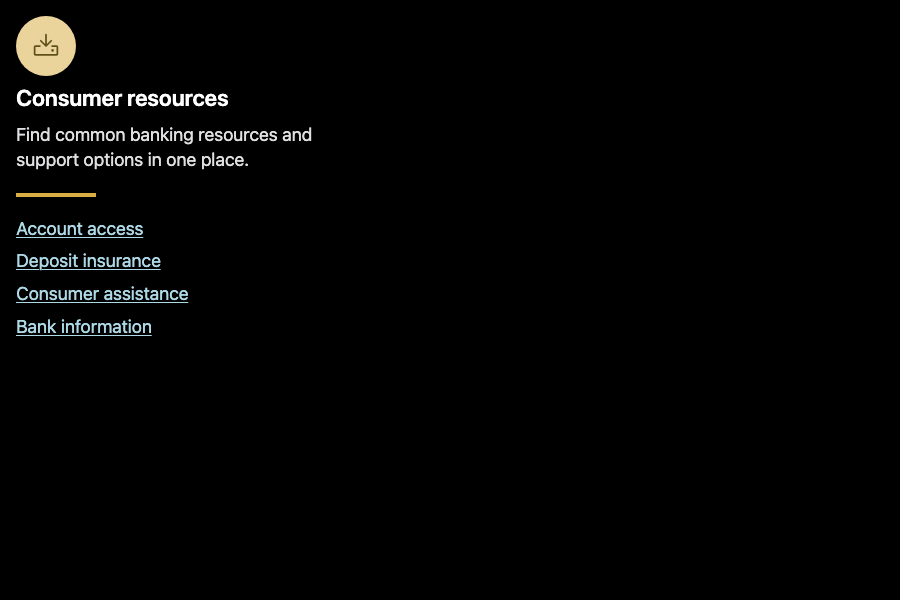
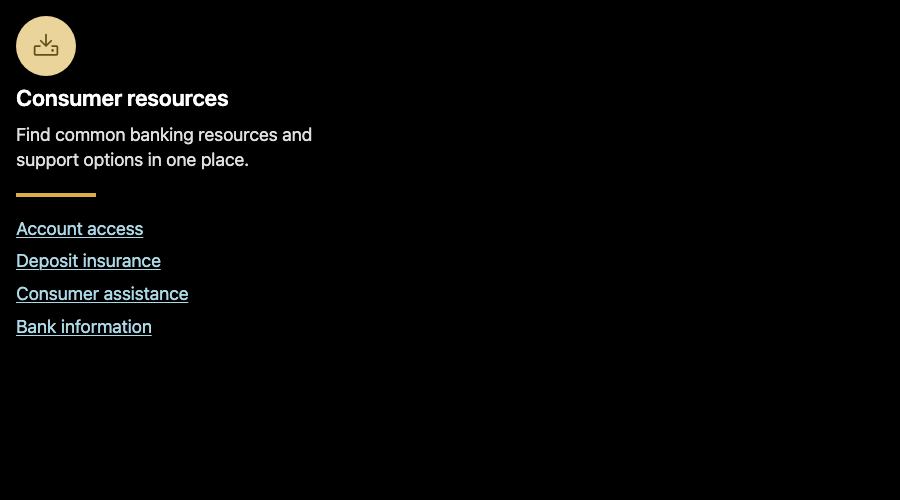
fix(visual): preserve tone contrast in dark mode

Changed region(s): [[0.0, 0.03, 0.3422, 0.6], [0.0, 0.63, 0.1867, 0.69]]

diff --git a/packages/components/src/components/fd-link-category.ts b/packages/components/src/components/fd-link-category.ts
@@ -104,25 +104,13 @@ export class FdLinkCategory extends LitElement {
         --fd-link-category-visual-bg-neutral,
         var(--fdic-color-bg-interactive)
       );
-      --fd-visual-fg-neutral: var(
-        --fd-link-category-visual-fg-neutral,
-        var(--fdic-color-text-primary)
-      );
       --fd-visual-bg-cool: var(
         --fd-link-category-visual-bg-cool,
         var(--fdic-color-primary-400)
       );
-      --fd-visual-fg-cool: var(
-        --fd-link-category-visual-fg-cool,
-        var(--fdic-color-icon-inverted)
-      );
       --fd-visual-bg-warm: var(
         --fd-link-category-visual-bg-warm,
         var(--fdic-color-secondary-300)
-      );
-      --fd-visual-fg-warm: var(
-        --fd-link-category-visual-fg-warm,
-        var(--fdic-color-secondary-900)
       );
     }
 

diff --git a/packages/components/src/components/fd-visual.test.ts b/packages/components/src/components/fd-visual.test.ts
@@ -103,7 +103,7 @@ describe("FdVisual", () => {
     );
   });
 
-  it("uses the Figma cool and warm token surfaces", () => {
+  it("uses stable cool and warm contrast token pairs", () => {
     const styles = (
       customElements.get("fd-visual") as typeof HTMLElement & {
         styles?: { cssText?: string };
@@ -111,9 +111,11 @@ describe("FdVisual", () => {
     ).styles?.cssText ?? "";
 
     expect(styles).toContain("var(--fdic-color-primary-400)");
-    expect(styles).toContain("var(--fdic-color-icon-inverted)");
-    expect(styles).toContain("var(--fdic-color-secondary-200)");
-    expect(styles).toContain("var(--fdic-color-icon-warm)");
+    expect(styles).toContain("var(--fdic-color-primary-900)");
+    expect(styles).toContain("var(--fdic-color-secondary-300)");
+    expect(styles).toContain("var(--fdic-color-secondary-900)");
+    expect(styles).not.toContain("var(--fdic-color-secondary-200)");
+    expect(styles).not.toContain("var(--fdic-color-icon-warm)");
   });
 
   it("applies the xs size class", async () => {

diff --git a/packages/components/src/components/fd-link-category.test.ts b/packages/components/src/components/fd-link-category.test.ts
@@ -129,7 +129,7 @@ describe("FdLinkCategory", () => {
     expect(stripe?.getAttribute("type")).toBe("cool");
   });
 
-  it("keeps the warm visual glyph dark enough for the light warm surface in every theme", () => {
+  it("inherits visual foreground colors from fd-visual instead of patching them locally", () => {
     const styles = (
       customElements.get("fd-link-category") as typeof HTMLElement & {
         styles?: { cssText?: string };
@@ -138,9 +138,9 @@ describe("FdLinkCategory", () => {
 
     expect(styles).toContain("--fd-link-category-visual-bg-warm");
     expect(styles).toContain("var(--fdic-color-secondary-300)");
-    expect(styles).toContain("--fd-link-category-visual-fg-warm");
-    expect(styles).toContain("var(--fdic-color-secondary-900)");
+    expect(styles).not.toContain("--fd-link-category-visual-fg");
     expect(styles).not.toContain("var(--fdic-color-icon-warm)");
+    expect(styles).not.toContain("var(--fdic-color-icon-inverted)");
   });
 
   it("omits decorative visual and stripe when disabled", async () => {

diff --git a/packages/components/src/components/fd-visual.ts b/packages/components/src/components/fd-visual.ts
@@ -108,18 +108,18 @@ export class FdVisual extends LitElement {
       background: var(--fd-visual-bg-cool, var(--fdic-color-primary-400));
       color: var(
         --fd-visual-fg-cool,
-        var(--fdic-color-icon-inverted)
+        var(--fdic-color-primary-900)
       );
     }
 
     .type-warm {
       background: var(
         --fd-visual-bg-warm,
-        var(--fdic-color-secondary-200)
+        var(--fdic-color-secondary-300)
       );
       color: var(
         --fd-visual-fg-warm,
-        var(--fdic-color-icon-warm)
+        var(--fdic-color-secondary-900)
       );
     }
 

diff --git a/apps/docs/.vitepress/theme/tokens.css b/apps/docs/.vitepress/theme/tokens.css
@@ -29,9 +29,6 @@
   .dark {
     color-scheme: dark;
 
-    /* Visual component — warm variant needs a dark gold bg for icon contrast */
-    --fd-visual-bg-warm: var(--fdic-color-secondary-800, #88691c);
-
     /* Mega-menu column surfaces — darker translucent tints for glass effect */
     --fd-global-header-mega-col-1: var(--fdic-color-surface-glass-1);
     --fd-global-header-mega-col-2: var(--fdic-color-surface-glass-2);
@@ -43,8 +40,6 @@
   @media (prefers-color-scheme: dark) {
     :root:not(.light) {
       color-scheme: dark;
-
-      --fd-visual-bg-warm: var(--fdic-color-secondary-800, #88691c);
       --fd-global-header-mega-col-1: var(--fdic-color-surface-glass-1);
       --fd-global-header-mega-col-2: var(--fdic-color-surface-glass-2);
       --fd-global-header-mega-col-3: var(--fdic-color-surface-glass-3);

diff --git a/apps/storybook/.storybook/preview-theme.css b/apps/storybook/.storybook/preview-theme.css
@@ -53,9 +53,6 @@ body {
   --fdic-text-disabled: var(--ds-color-text-disabled, #9E9EA0);
   --fdic-text-error: var(--ds-color-text-error, #FFCCCC);
 
-  /* Visual component — warm variant needs a dark gold bg for icon contrast */
-  --fd-visual-bg-warm: var(--ds-color-secondary-800, #88691C);
-
   /* Drawer — darker backdrop for dark mode */
   --fd-drawer-backdrop: rgba(0, 0, 0, 0.54);
 

diff --git a/apps/docs/components/visual.md b/apps/docs/components/visual.md
@@ -54,10 +54,10 @@ Slot content is decorative in v1. Do not slot interactive controls or content th
 | `--fd-visual-radius` | `9999px` | Corner radius for the circular surface. |
 | `--fd-visual-bg-neutral` | `var(--fdic-color-bg-interactive, #f5f5f7)` | Neutral surface background. |
 | `--fd-visual-fg-neutral` | `var(--fdic-color-text-primary, #212123)` | Neutral foreground color used by the fallback glyph and slotted icon content. |
-| `--fd-visual-bg-cool` | `var(--fdic-color-info-100, #38b6ff)` | Cool surface background. |
-| `--fd-visual-fg-cool` | `var(--fdic-color-text-inverted, #ffffff)` | Cool foreground color used by the fallback glyph and slotted icon content. |
-| `--fd-visual-bg-warm` | `var(--fdic-color-secondary-200, #ebd49b)` | Warm surface background. |
-| `--fd-visual-fg-warm` | `var(--fdic-color-text-primary, #212123)` | Warm foreground color used by the fallback glyph and slotted icon content. |
+| `--fd-visual-bg-cool` | `var(--fdic-color-primary-400)` | Cool surface background. |
+| `--fd-visual-fg-cool` | `var(--fdic-color-primary-900)` | Cool foreground color used by the fallback glyph and slotted icon content. Uses a stable dark foreground so the glyph remains legible on the bright cool surface in light and dark themes. |
+| `--fd-visual-bg-warm` | `var(--fdic-color-secondary-300)` | Warm surface background. |
+| `--fd-visual-fg-warm` | `var(--fdic-color-secondary-900)` | Warm foreground color used by the fallback glyph and slotted icon content. Uses a stable dark foreground so the glyph remains legible on the light warm surface in light and dark themes. |
 | `--fd-visual-bg-avatar` | `transparent` | Avatar background surface. |
 | `--fd-visual-avatar-placeholder-color` | `#b0b0b3` | Placeholder avatar silhouette color. |
 

diff --git a/apps/docs/components/link-category.md b/apps/docs/components/link-category.md
@@ -91,7 +91,6 @@ The Link Category component groups a short category description with a small set
 | `--fd-link-category-visual-bg-neutral` | var(--fdic-color-bg-interactive) | Neutral visual background. |
 | `--fd-link-category-visual-bg-cool` | var(--fdic-color-primary-400) | Cool visual background. |
 | `--fd-link-category-visual-bg-warm` | var(--fdic-color-secondary-300) | Warm visual background. |
-| `--fd-link-category-visual-fg-warm` | var(--fdic-color-secondary-900) | Warm visual foreground color. Uses a stable dark foreground so the glyph remains legible on the light warm surface in light and dark themes. |
 
 ## Shadow parts
 